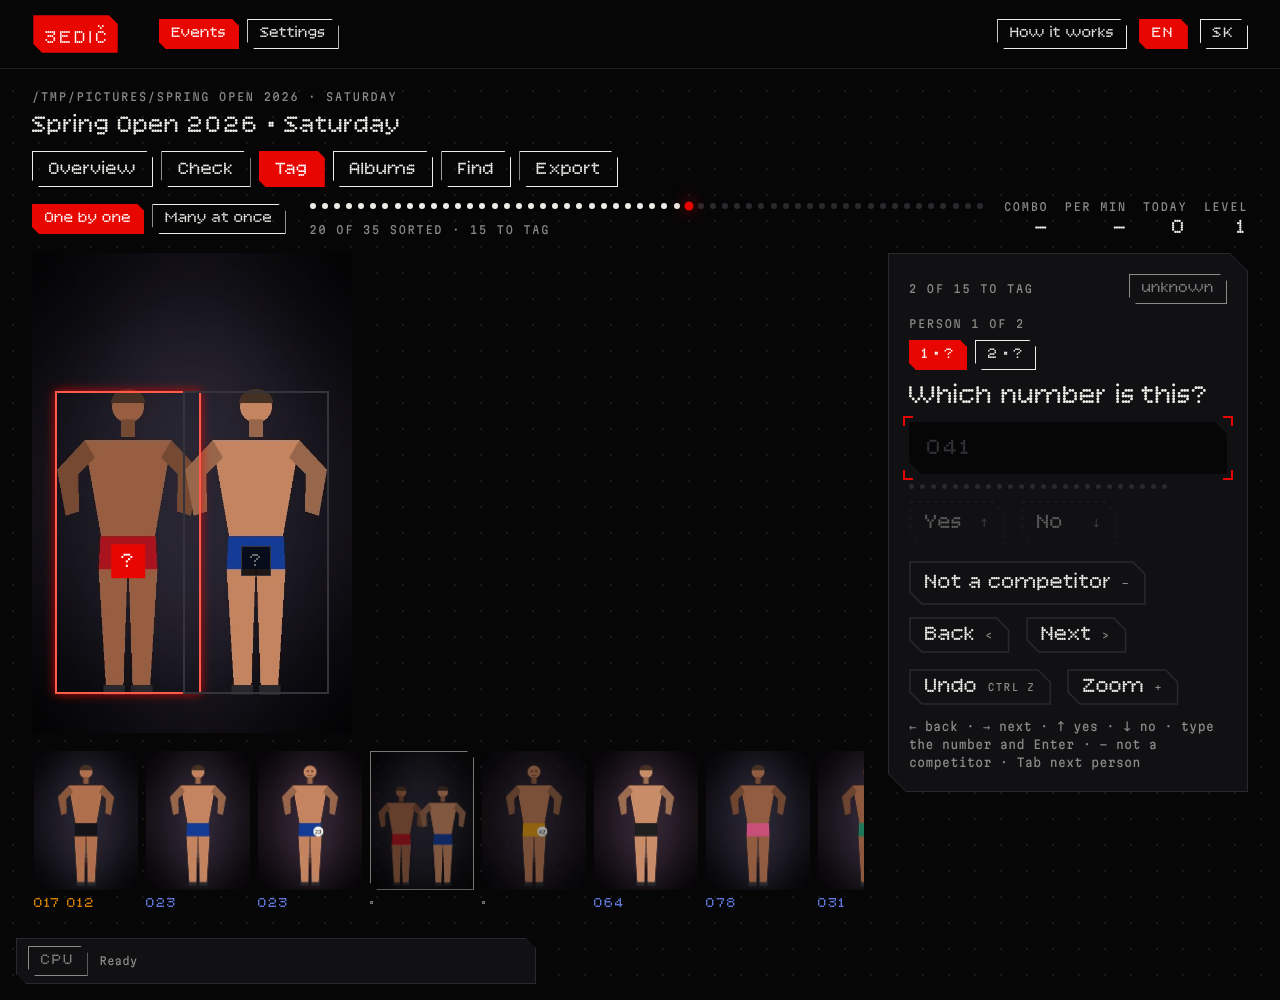
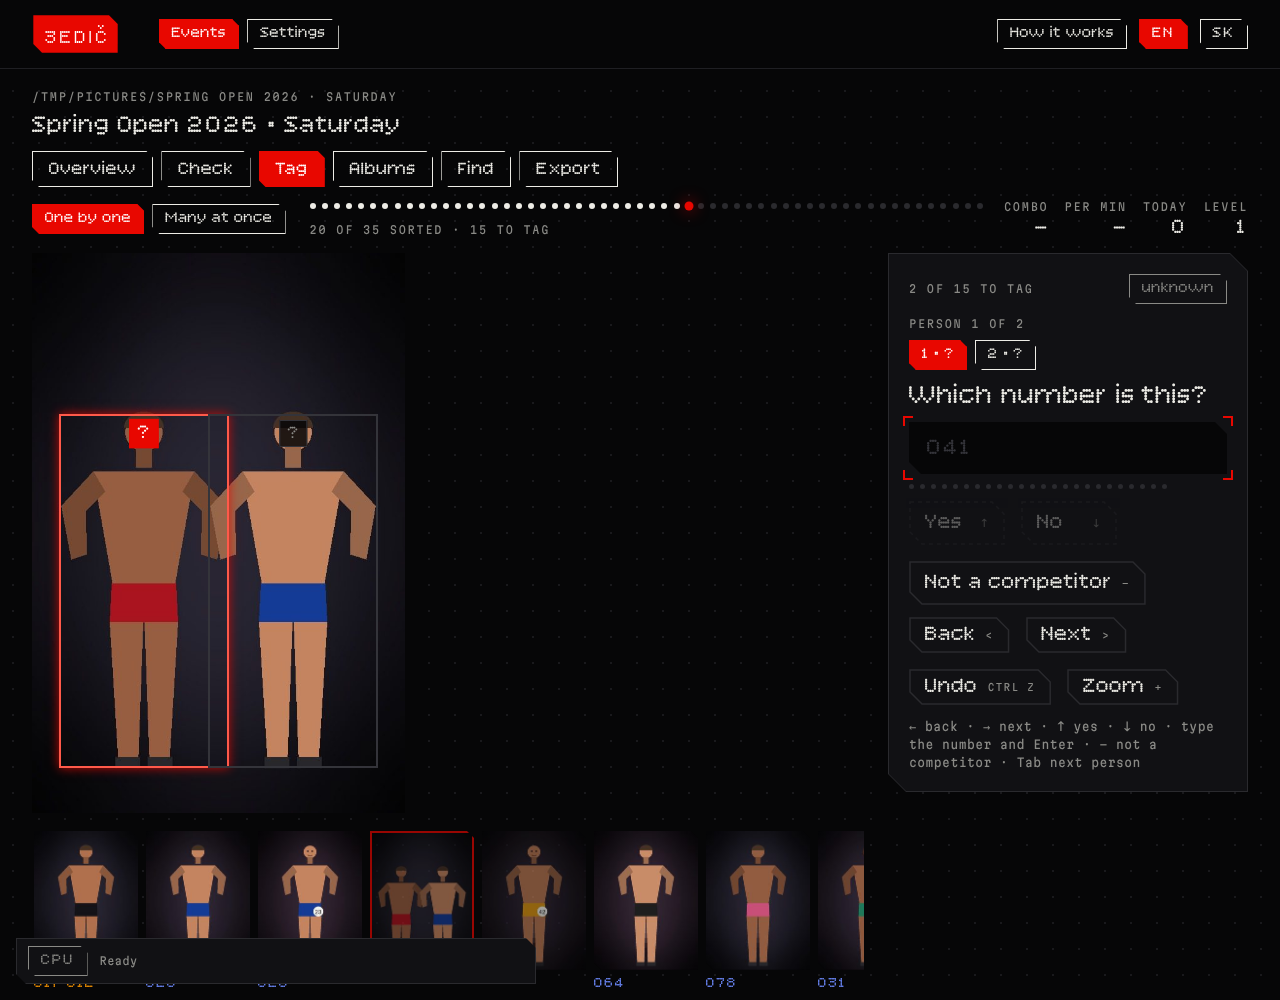
Fix: number labels no longer cover the bib; dialogs fit the screen. Add the group photo setting (everyone / main person / group folder / both). Release notes.
Claude-Session: https://claude.ai/code/session_019mFR2uoft1Z3mCXyTKNEiq

Changed region(s): [[0.0312, 0.372, 0.4375, 0.961], [0.5625, 0.744, 0.6875, 0.961], [0.4688, 0.744, 0.5312, 0.961]]

diff --git a/edic/ui/js/albums.js b/edic/ui/js/albums.js
@@ -3,6 +3,18 @@ import { t, pad3 } from './i18n.js';
 import { h, api, img, crop, clear, Key, Tag, Field, DotBar, lightbox, toast, modal, burstAt } from './lib.js';
 import { go } from './app.js';
 
+/** How a photo with several competitors on it is written to the folders. Saved per event. */
+export function groupModePicker(ctx, onchange) {
+  const box = h('div', { class: 'cols' });
+  const draw = () => {
+    clear(box).append(...['all', 'main', 'separate', 'both'].map((m) => h('button', { class: 'choice', type: 'button', 'aria-pressed': String(ctx.project.settings.group_mode === m), onclick: async () => {
+      await api.put(`/api/projects/${ctx.pid}/settings`, { group_mode: m }); ctx.project.settings.group_mode = m; draw(); onchange?.(m);
+    } }, h('span', { class: 't' }, t('group.' + m)), h('span', { class: 'd' }, t('group.' + m + '.d')))));
+  };
+  draw();
+  return h('div', { class: 'stack' }, h('div', { class: 'ms-caption' }, t('group.title')), box, h('p', { class: 'data subtle' }, t('group.note')));
+}
+
 export async function renderAlbums(ctx) {
   const { pid } = ctx;
   const album = await api.get(`/api/projects/${pid}/review/album`);
@@ -21,7 +33,8 @@ export async function renderAlbums(ctx) {
       Key(t('albums.delempty', { n: empty.length }), { h: 40, disabled: !empty.length, onclick: async () => {
         const r = await api.del(`/api/projects/${pid}/albums/empty`); toast(t('albums.deleted', { n: r.deleted })); ctx.reload();
       } }))));
-  if (!album.length) return h('div', { class: 'stack gap-6' }, bar, h('div', { class: 'empty' }, h('p', { class: 'body-l muted' }, t('albums.none'))));
+  const groups = h('div', { class: 'panel' }, h('div', { class: 'panel-in' }, groupModePicker(ctx)));
+  if (!album.length) return h('div', { class: 'stack gap-6' }, bar, groups, h('div', { class: 'empty' }, h('p', { class: 'body-l muted' }, t('albums.none'))));
   const cards = album.map((c) => {
     const f = c.confirmed + c.auto + c.check ? (c.confirmed + c.auto) / (c.confirmed + c.auto + c.check) : 0;
     const bar_ = DotBar({ value: f, n: 20 }); bar_.classList.add('mini');
@@ -32,7 +45,7 @@ export async function renderAlbums(ctx) {
       h('div', { class: 'meta' }, h('div', { class: 'big' }, c.kind === 'others' ? t('album.others') : c.label), c.name && c.kind !== 'others' && h('div', { class: 'title muted', style: { fontSize: '20px' } }, c.name), bar_,
         h('div', { class: 'data subtle' }, `${c.confirmed} ${t('album.confirmed')} · ${c.auto} ${t('album.auto')}${c.check ? ` · ${c.check} ${t('album.check')}` : ''}`)));
   });
-  return h('div', { class: 'stack gap-6' }, bar, h('div', { class: 'album' }, cards));
+  return h('div', { class: 'stack gap-6' }, bar, groups, h('div', { class: 'album' }, cards));
 }
 
 function namesDialog(ctx) {
@@ -125,7 +138,7 @@ async function openAlbum(ctx, c) {
       h('div', { class: 'row wrap' }, Tag(c.label), !items.length && Key(t('common.delete'), { h: 36, onclick: async () => { await api.del(`/api/projects/${pid}/competitors/${c.id}`); done(); } }),
         h('span', { class: 'data subtle' }, t('album.renumber.hint'))));
   m = modal({ title: others ? t('album.others') : `${c.label} ${c.name || ''}`, wide: true,
-    body: h('div', { class: 'stack' }, head, h('div', { class: 'hr' }), h('p', { class: 'data subtle' }, t('album.select.hint')), actionsRow, count, items.length ? grid : h('p', { class: 'muted' }, t('album.none'))) });
+    body: h('div', { class: 'stack' }, head, h('div', { class: 'hr' }), h('div', { class: 'sticky-bar' }, h('p', { class: 'data subtle' }, t('album.select.hint')), actionsRow, count), items.length ? grid : h('p', { class: 'muted' }, t('album.none'))) });
   drawGrid();
 }
 

diff --git a/edic/ui/css/app.css b/edic/ui/css/app.css
@@ -233,7 +233,7 @@ pre.notes{white-space:pre-wrap;font-family:var(--font-mono);font-size:12px;line-
 /* ---- photo stage: a wrapper with exactly the photo's proportions, so boxes in % match the picture at any window size ---- */
 .pstage{position:relative;aspect-ratio:var(--ar);width:min(100%,calc(var(--mh,68vh)*var(--ar)));background:var(--bg)}
 .pstage>img{position:absolute;inset:0;width:100%;height:100%;display:block;-webkit-user-drag:none;user-select:none}
-.pstage .layer{position:absolute;inset:0;overflow:hidden}
+.pstage .layer{position:absolute;inset:0}
 .pstage.markable{cursor:crosshair;touch-action:none;user-select:none}
 .pstage .box{position:absolute;border:2px solid var(--signal);box-shadow:var(--glow-signal);pointer-events:none}
 .pstage .pbox{position:absolute;border:2px solid var(--orbit);background:none;padding:0;cursor:pointer;transition:border-color .25s ease,box-shadow .25s ease}
@@ -241,13 +241,13 @@ pre.notes{white-space:pre-wrap;font-family:var(--font-mono);font-size:12px;line-
 .pstage .pbox.ok{border-color:var(--cobalt-text)}
 .pstage .pbox.sel{border-color:var(--signal-hot);box-shadow:var(--glow-signal)}
 .pstage .pbox.far{border-style:dashed;opacity:.55}
-.plabel{position:absolute;transform:translate(-50%,-50%);display:flex;align-items:baseline;gap:6px;padding:1px 8px;background:rgba(6,6,7,.86);border:1px solid var(--orbit);font-family:var(--font-display);font-size:20px;line-height:26px;white-space:nowrap;cursor:pointer;transition:transform .35s var(--ms-spring)}
-.plabel small{font-family:var(--font-mono);font-size:10px;color:var(--text-subtle)}
+.plabel{position:absolute;translate:-50% 6px;display:flex;flex-direction:column;align-items:center;padding:1px 7px;background:rgba(6,6,7,.86);border:1px solid var(--orbit);font-family:var(--font-display);font-size:19px;line-height:23px;white-space:nowrap;cursor:pointer;transition:scale .3s var(--ms-spring)}
+.plabel small{font-family:var(--font-mono);font-size:10px;line-height:12px;color:var(--text-subtle)}
 .plabel.done{border-color:var(--cobalt-text);color:var(--cobalt-text)}
 .plabel.sug{border-color:var(--amber);color:var(--amber)}
 .plabel.none{color:var(--text-subtle)}
 .plabel.far{opacity:.6;font-size:15px;line-height:20px}
-.plabel.sel{background:var(--signal);border-color:var(--signal);color:var(--on-signal);transform:translate(-50%,-50%) scale(1.12)}
+.plabel.sel{background:var(--signal);border-color:var(--signal);color:var(--on-signal);scale:1.1}
 .plabel.sel small{color:rgba(255,255,255,.8)}
 .lightbox{position:fixed;inset:0;z-index:95;background:rgba(6,6,7,.96);overflow:auto;cursor:zoom-out;display:flex}
 .lightbox img{margin:auto;display:block;max-width:none;width:min(2400px,max(100%,1600px))}
@@ -321,3 +321,10 @@ body[data-tab="tag"] main{padding-top:var(--space-5)}
 /* credit */
 .credit{display:inline-flex;align-items:center;gap:var(--space-3)}
 .foot{position:relative;z-index:1;max-width:1280px;margin:0 auto;padding:0 var(--space-8) 72px;display:flex;justify-content:flex-end}
+
+/* a dialog never taller than the screen: the title and buttons stay put, the middle scrolls */
+.modal{max-height:calc(100vh - 2*var(--space-5))}
+.modal>.panel-in{min-height:0;display:flex;flex-direction:column;overflow:hidden}
+.modal-body{min-height:0;flex:1;overflow:auto;padding-right:4px}
+.modal-head,.modal-actions{flex:none}
+.sticky-bar{position:sticky;top:0;z-index:3;background:var(--surface);padding:6px 0 10px;display:flex;flex-direction:column;gap:var(--space-2)}

diff --git a/edic/ui/js/event.js b/edic/ui/js/event.js
@@ -5,7 +5,7 @@ import { go, reload } from './app.js';
 import { renderOverview } from './workflow.js';
 import { renderCheck } from './review.js';
 import { renderTag } from './tag.js';
-import { renderAlbums } from './albums.js';
+import { renderAlbums, groupModePicker } from './albums.js';
 
 const TABS = ['overview', 'check', 'tag', 'albums', 'find', 'export'];
 
@@ -108,7 +108,8 @@ async function findTab({ pid }) {
 }
 
 // ------------------------------------------------------------------ export
-async function exportTab({ pid, project }) {
+async function exportTab(ctx) {
+  const { pid, project } = ctx;
   const cfg = { assign_mode: project.settings.assign_mode, template: project.settings.folder_template, mode: project.settings.export_mode, dest: '' };
   const plan = h('div', { class: 'plan' });
   const total = h('div', { class: 'num sm' });
@@ -136,7 +137,7 @@ async function exportTab({ pid, project }) {
     total.textContent = pad3(p.files);
     clear(plan);
     if (!p.folders.length) plan.append(h('p', { class: 'muted' }, t('export.noneyet')));
-    for (const f of p.folders) plan.append(h('div', { class: 'r' }, h('span', { style: f.name === '_unsorted' ? { color: 'var(--text-subtle)' } : null }, f.name === '_unsorted' ? t('export.unsorted') : f.name === 'Others' ? t('album.others') : f.name), h('span', { class: 'data subtle' }, t('export.files', { n: f.count }))));
+    for (const f of p.folders) plan.append(h('div', { class: 'r' }, h('span', { style: f.name === '_unsorted' ? { color: 'var(--text-subtle)' } : null }, f.name === '_unsorted' ? t('export.unsorted') : f.name === 'Others' ? t('album.others') : f.name === '_groups' ? t('export.groups') : f.name), h('span', { class: 'data subtle' }, t('export.files', { n: f.count }))));
   }
   const tpl = Field({ label: t('export.template'), value: cfg.template, id: 'tpl', maxlength: 60, onInput: (v) => { cfg.template = v; } });
   tpl.input.addEventListener('change', () => save('folder_template', cfg.template));
@@ -153,6 +154,7 @@ async function exportTab({ pid, project }) {
   return h('div', { class: 'cols side' },
     h('div', { class: 'stack gap-6' },
       h('div', { class: 'panel' }, h('div', { class: 'panel-in sect' }, h('div', { class: 'ms-caption' }, t('export.mode')), modes)),
+      h('div', { class: 'panel' }, h('div', { class: 'panel-in' }, groupModePicker(ctx, () => refresh()))),
       h('div', { class: 'panel' }, h('div', { class: 'panel-in stack' }, tpl.el,
         h('div', { class: 'tags' }, ['{number:03d}', '{number:03d} {name}', '{name} {number}'].map((x) => Tag(x, { onclick: () => { tpl.value = x; cfg.template = x; save('folder_template', x); } }))),
         h('div', { class: 'ms-caption' }, t('export.how')), how))),

diff --git a/edic/ui/js/i18n.js b/edic/ui/js/i18n.js
@@ -11,6 +11,12 @@ export const STRINGS = {
     'common.on': 'on', 'common.off': 'off', 'common.apply': 'Apply', 'common.open': 'Open', 'common.working': 'Working…',
 
     'common.stop': 'Stop',
+    'group.title': 'Photos with several people', 'group.note': 'Applies to the exported folders. In the app, an album always shows every photo its competitor is on.',
+    'group.all': 'In everyone’s album', 'group.all.d': 'A group photo is written into the folder of every competitor on it.',
+    'group.main': 'Only the main person', 'group.main.d': 'Only the biggest person on the photo gets it in their folder.',
+    'group.separate': 'One group folder', 'group.separate.d': 'Photos with several competitors go to a “Group photos” folder, not to individual folders.',
+    'group.both': 'Everyone’s folder and the group folder', 'group.both.d': 'Each competitor gets it, and there is a copy in “Group photos” too.',
+    'export.groups': 'Group photos',
     'about.made': 'Made by', 'settings.aboutapp': 'About',
     'nav.help': 'How it works',
     'tab.overview': 'Overview', 'tab.check': 'Check', 'tab.tag': 'Tag', 'tab.albums': 'Albums',
@@ -210,6 +216,12 @@ export const STRINGS = {
     'common.on': 'zapnuté', 'common.off': 'vypnuté', 'common.apply': 'Použiť', 'common.open': 'Otvoriť', 'common.working': 'Pracujem…',
 
     'common.stop': 'Zastaviť',
+    'group.title': 'Fotky s viacerými ľuďmi', 'group.note': 'Platí pre exportované priečinky. V aplikácii album vždy ukazuje každú fotku, na ktorej súťažiaci je.',
+    'group.all': 'V albume každého', 'group.all.d': 'Skupinová fotka sa zapíše do priečinka každého súťažiaceho, ktorý na nej je.',
+    'group.main': 'Len hlavná osoba', 'group.main.d': 'Do priečinka sa dostane len najväčšej osobe na fotke.',
+    'group.separate': 'Jeden skupinový priečinok', 'group.separate.d': 'Fotky s viacerými súťažiacimi idú do priečinka „Skupinové fotky“, nie do jednotlivých priečinkov.',
+    'group.both': 'Priečinok každého aj skupinový', 'group.both.d': 'Každý súťažiaci ju dostane a kópia je aj v „Skupinové fotky“.',
+    'export.groups': 'Skupinové fotky',
     'about.made': 'Vytvoril', 'settings.aboutapp': 'O aplikácii',
     'nav.help': 'Ako to funguje',
     'tab.overview': 'Prehľad', 'tab.check': 'Kontrola', 'tab.tag': 'Tagovanie', 'tab.albums': 'Albumy',

diff --git a/edic/ui/js/tag.js b/edic/ui/js/tag.js
@@ -133,7 +133,7 @@ async function singleView(ctx, head) {
 
   function draw() {
     clear(host);
-    const stage = PhotoStage({ src: img(pid, curId, previewWidth()), width: detail.width, height: detail.height, maxVh: 48, cls: 'card-anim' });
+    const stage = PhotoStage({ src: img(pid, curId, previewWidth()), width: detail.width, height: detail.height, maxVh: 56, cls: 'card-anim' });
     const labelOf = (p) => {
       if (p.assigned.length) return { text: p.assigned.map((c) => c.label).join(' '), kind: 'done' };
       const s = [...p.suggested].sort((a, b) => b.p - a.p)[0];
@@ -144,9 +144,9 @@ async function singleView(ctx, head) {
       const box = h('button', { class: `pbox${p.idx === sel ? ' sel' : ''}${far ? ' far' : ''}${resolved(p) ? ' ok' : ''}`, type: 'button', 'aria-label': `${p.idx + 1}`, onclick: () => { sel = p.idx; draw(); } });
       placeBox(box, p.box, detail.width, detail.height);
       const l = labelOf(p);
-      const at = p.anchor || [p.box[0], p.box[1]];                      // the label sits where the number is on the shirt
-      const chip = h('div', { class: `plabel ${l.kind}${p.idx === sel ? ' sel' : ''}${far ? ' far' : ''}`, onclick: () => { sel = p.idx; draw(); } }, l.text, l.conf != null && h('small', null, pct(l.conf)));
-      placePoint(chip, at, detail.width, detail.height);
+      // The label sits at the top of the person (head and shoulders), never over the hips: the number is what you are reading.
+      const chip = h('div', { class: `plabel ${l.kind}${p.idx === sel ? ' sel' : ''}${far ? ' far' : ''}`, onclick: () => { sel = p.idx; draw(); } }, h('span', null, l.text), l.conf != null && h('small', null, pct(l.conf)));
+      placePoint(chip, [(p.box[0] + p.box[2]) / 2, p.box[1]], detail.width, detail.height);
       stage.layer.append(box, chip);
     }
     const strip = h('div', { class: 'filmstrip', role: 'list' }, frames.map((f) => h('button', { class: `frame ${f.state}${f.current ? ' cur' : ''}`, type: 'button', role: 'listitem', title: f.tags.map((x) => x.label).join(' '),

diff --git a/edic/export.py b/edic/export.py
@@ -34,7 +34,42 @@ def _place(src: Path, dst: Path, mode: str):
         shutil.copy2(src, dst)
 
 
-def plan(project, assign_mode: str | None = None, template: str | None = None, include_unsorted: bool = True):
+GROUPS = "_groups"
+GROUP_MODES = ("all", "main", "separate", "both")
+
+
+def _apply_group_mode(project, pairs, comps, mode):
+    """A photo with several competitors: keep it in every album (all), only in the album of the biggest person (main),
+    only in the Group photos folder (separate) or in both (both). -> (pairs, ids of the group photos that go to GROUPS)"""
+    if mode not in GROUP_MODES or mode == "all":
+        return pairs, set()
+    by_photo: dict[int, list] = {}
+    for pair in pairs:
+        if comps[pair[1]]["kind"] == "competitor":
+            by_photo.setdefault(pair[0], []).append(pair)
+    groups = {pid: ps for pid, ps in by_photo.items() if len({p[1] for p in ps}) > 1}
+    if not groups:
+        return pairs, set()
+    people = project.load_persons()
+    with project.lock:
+        who = {(r["photo_id"], r["competitor_id"]): r["person_idx"] for r in project.con.execute("SELECT photo_id,competitor_id,person_idx FROM assignments WHERE person_idx IS NOT NULL")}
+
+    def area(photo_id, comp_id):
+        i = who.get((photo_id, comp_id))
+        ps = people.get(photo_id, [])
+        return (ps[i].box[2] - ps[i].box[0]) * (ps[i].box[3] - ps[i].box[1]) if i is not None and 0 <= i < len(ps) else 0.0
+
+    drop = set()
+    for pid, ps in groups.items():
+        if mode == "main":
+            keep = max(ps, key=lambda p: area(pid, p[1]))
+            drop |= {(pid, p[1]) for p in ps if p is not keep}
+        elif mode == "separate":
+            drop |= {(pid, p[1]) for p in ps}
+    return [p for p in pairs if (p[0], p[1]) not in drop], (set(groups) if mode in ("separate", "both") else set())
+
+
+def plan(project, assign_mode: str | None = None, template: str | None = None, include_unsorted: bool = True, group_mode: str | None = None):
     """What would be written: {folder: [(photo name, source path, how)]} - no files are touched."""
     review = Review(project)
     template = template or project.setting("folder_template")
@@ -42,10 +77,14 @@ def plan(project, assign_mode: str | None = None, template: str | None = None, i
     photos = {p["id"]: p for p in project.photos()}
     folders: dict[str, list] = {}
     placed = set()
-    for photo_id, comp_id, how in review.effective(assign_mode):
+    pairs, group_ids = _apply_group_mode(project, review.effective(assign_mode), comps, group_mode or project.setting("group_mode"))
+    for photo_id, comp_id, how in pairs:
         c = comps[comp_id]
         folders.setdefault(folder_name(template, c["number"], c["name"], c["variant"], c["kind"]), []).append((photos[photo_id], how))
         placed.add(photo_id)
+    if group_ids:
+        folders[GROUPS] = [(photos[i], "group") for i in sorted(group_ids)]
+        placed |= group_ids
     if include_unsorted:
         rest = [p for pid, p in photos.items() if pid not in placed and p["processed"]]
         if rest:

diff --git a/tests/test_workflow.py b/tests/test_workflow.py
@@ -279,3 +279,26 @@ def test_bulk_tag_of_a_single_subject_drops_the_models_other_guesses(project):
     rv.bulk_tag([{"photo_id": ph}], c41)
     rows = {r["competitor_id"]: r["status"] for r in project.con.execute("SELECT competitor_id,status FROM assignments WHERE photo_id=?", (ph,))}
     assert rows[c41] == "accepted" and rows.get(c42) == "rejected"
+
+
+def test_group_photo_modes_in_the_export_plan(project):
+    rv = Review(project)
+    c41, c42 = comp_id(project, 41), comp_id(project, 42)
+    ph = pid(project, 8)                                       # the group photo: person 0 is 41, person 1 is 42
+    people = project.load_persons()[ph]
+    people[1].box = (people[1].box[0], people[1].box[1] + 400, people[1].box[2], people[1].box[3])        # 42 is smaller (further away)
+    project.save_persons(ph, people)
+    rv.set_person(ph, 0, c41)
+    rv.set_person(ph, 1, c42)
+    names = lambda mode: {k: [p["name"] for p, _ in v] for k, v in plan(project, "manual", group_mode=mode).items()}
+    gname = project.photos()[8]["name"]
+    every = names("all")
+    assert gname in every["041"] and gname in every["042"] and "_groups" not in every
+    main = names("main")
+    assert gname in main["041"] and gname not in main.get("042", [])
+    sep = names("separate")
+    assert gname not in sep.get("041", []) and gname not in sep.get("042", []) and sep["_groups"] == [gname]
+    both = names("both")
+    assert gname in both["041"] and gname in both["042"] and both["_groups"] == [gname]
+    project.set_setting("group_mode", "separate")                # the project's own setting is the default
+    assert "_groups" in plan(project, "manual")

diff --git a/tests/live/ui_v2_tag.py b/tests/live/ui_v2_tag.py
@@ -44,7 +44,7 @@ with sync_playwright() as p:
     page.reload(); settle(800)
 
     # ---- check grid: untick two, confirm; the two go to the tagging list
-    t0 = to_tag()
+    acc0 = api(f"/api/projects/{pid}/review/stats")["accepted_pairs"]
     page.goto(f"{base}/#/e/{pid}/check"); settle(1500)
     cells = page.locator(".grid .cell")
     n = cells.count()
@@ -52,7 +52,8 @@ with sync_playwright() as p:
         shot("check")
         cells.nth(0).click(); cells.nth(1).click()
         page.locator(".ms-key.primary").first.click(); settle(1200)
-        check("rejected photos return to the tagging list", to_tag() >= t0, f"{t0} -> {to_tag()}")
+        acc1 = api(f"/api/projects/{pid}/review/stats")["accepted_pairs"]
+        check("confirming accepts all but the two clicked thumbnails", acc1 - acc0 == n - 2, f"{acc0} -> {acc1} of {n}")
     else:
         print("note: nothing to check")
 

diff --git a/edic/api.py b/edic/api.py
@@ -251,6 +251,8 @@ def create_app(engine: Engine | None = None, token: str | None = None) -> FastAP
     @app.put("/api/projects/{pid}/settings", **api)
     def project_settings(pid: str, changes: dict = Body(...)):
         p = proj(pid)
+        if "group_mode" in changes and changes["group_mode"] not in export_mod.GROUP_MODES:
+            raise HTTPException(400, "group_mode must be one of " + ", ".join(export_mod.GROUP_MODES))
         for k, v in changes.items():
             try:
                 p.set_setting(k, v)

diff --git a/edic/project.py b/edic/project.py
@@ -26,6 +26,7 @@ DEFAULTS = {
     "folder_template": "{number:03d}",   # also {name}
     "export_mode": "copy",      # copy | hardlink | symlink
     "ocr_min_number": 10,
+    "group_mode": "all",        # photos with several competitors: all (every album) | main (the biggest person only) | separate (a Group photos folder only) | both
     "roster_mode": "auto",      # auto: albums appear for numbers found | list: only the start list (plus manual tagging)
 }
 

diff --git a/README.md b/README.md
@@ -111,7 +111,7 @@ To change the app icon, replace `packaging/icon-1024.png`; everything else is ge
 
 ## Group photos
 
-A photo with several competitors is written into the folder of **every** competitor it is assigned to (copy, hard link or shortcut). Which competitors count is the *Which photos go in* setting on the Export tab: **Smart** (confirmed plus very likely), **Readable numbers** (only where a number was read on that photo), **Everyone plausible**, or **Only my decisions**. On the *Tag* screen you click each person on the photo and say who they are, which is the most exact way.
+By default a photo with several competitors is written into the folder of **every** competitor it is assigned to (copy, hard link or shortcut). The *Photos with several people* setting (Albums and Export tabs) changes that: **only the main person** (the biggest on the photo), **one group folder** (`_groups`, not in individual folders) or **both**. Which competitors count is the *Which photos go in* setting on the Export tab: **Smart** (confirmed plus very likely), **Readable numbers** (only where a number was read on that photo), **Everyone plausible**, or **Only my decisions**. On the *Tag* screen you click each person on the photo and say who they are, which is the most exact way.
 
 ## Models
 

diff --git a/packaging/RELEASE_NOTES.md b/packaging/RELEASE_NOTES.md
@@ -1,3 +1,12 @@
+## What's new
+
+- **A simpler workflow.** One Overview screen walks through photos, number examples, analysis, the optional AI helper and tagging.
+- **Show a few numbers before the analysis**, so numbers are read where yours actually sit. The marking box now follows the cursor at any window size.
+- **Tag screen** with the neighbouring photos, every person boxed, several people per photo, keyboard control (← → ↑ ↓, number + Enter, `-` for non-competitors) and a many-at-once grid.
+- **Albums**: rename, renumber, merge, split `056_2`, take wrong photos out, an *Others* album, and a setting for how photos with several people are written to folders (everyone, main person, group folder, or both).
+- Drag a folder into the window, a status bar showing what is running, a tutorial, a processor/graphics card choice and a movable working folder.
+- Made by møušn.
+
 ## Install
 
 **Windows 10 / 11** — download `3EDIC-Setup-*.exe` and run it. No administrator rights needed. If Windows SmartScreen says "Windows protected your PC", click *More info → Run anyway* (the installer is not code-signed yet).
